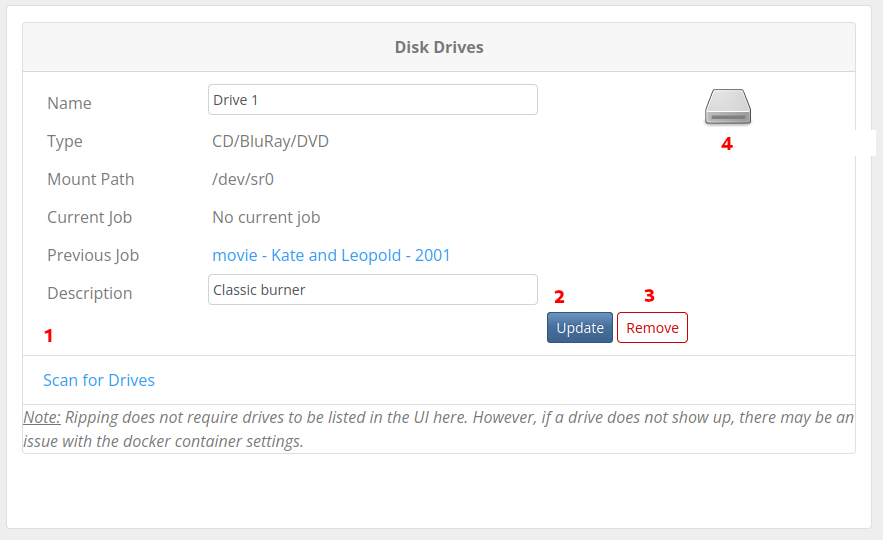
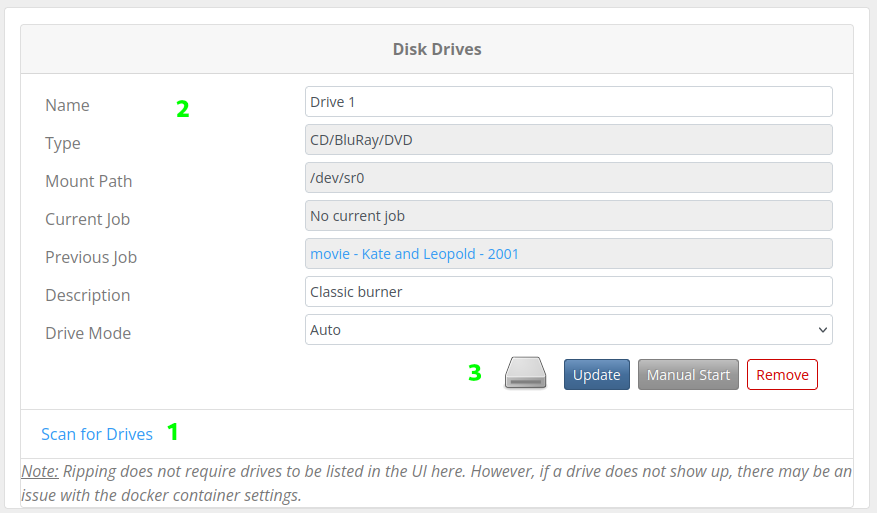
ARM Wiki - update Settings Drives
Update to align with additional features

diff --git a/arm_wiki/Settings-Drives.md b/arm_wiki/Settings-Drives.md
@@ -5,8 +5,11 @@
   * [Drive Settings](#drive-settings)
     * [1. Scanning For New Drives](#1-scanning-for-new-drives)
     * [2. Edit Drive Details](#2-edit-drive-details)
-    * [3. Removing a Drive](#3-removing-a-drive)
-    * [4. Eject or Close Drive](#4-eject-or-close-drive)
+    * [3. Drive Options](#3-drive-options)
+      * [3.1. Eject or Close Drive](#31-eject-or-close-drive)
+      * [3.2. Update Fields](#32-update-fields)
+      * [3.3. Manual Start](#33-manual-start)
+      * [3.4 Remove a Drive](#34-remove-a-drive)
 <!-- TOC -->
 
 ## Overview
@@ -18,7 +21,7 @@ Scanning for drives allows easier management, viewing and status of jobs running
 > For ARM to rip media the drives do not need to appear on the settings, drive page.
 > However, if ARM cannot find a drive following a scan, there may be issues with the docker configuration.
 
-<img title="ARM Settings Page" alt="Default ARM Settings page with no drives" src="images/arm_settings.png" width="50%" height=""/>
+<img title="ARM Settings Page" alt="Default ARM Settings page with no drives" src="images/arm_settings.png" width="80%" height=""/>
 
 ## Drive Settings
 
@@ -26,26 +29,16 @@ The following options are available from the ARM settings page, for each of the 
 
 1. Scan for Drives
 2. Edit Drive Details
-3. Remove a Drive
-4. Eject or Close Drive
+3. Drive Options
 
-<img title="ARM Settings Page" alt="Default ARM Settings page with no drives" src="images/arm_settings_drives.png" width="30%" height=""/>
+<img title="ARM Settings Page" alt="Default ARM Settings page with no drives" src="images/arm_settings_drives.png" width="80%" height=""/>
 
 ### 1. Scanning For New Drives
 
 To add a new drive to the ARM system, select 'Scan for Drives'
 ARM will scan the system looking for any new drive on the system, and associate any previous jobs to the drive.
 
-Once ARM has scanned the system, the following information will be presented.
-
-| Field        | Details                                                        | System or User |
-|--------------|----------------------------------------------------------------|----------------|
-| Name         | Defaults to `Drive x` where x is the total number of drives    | User editable  |
-| Type         | Type of drive, CD, DVD or Bluray or combination of all three   | System field   |
-| Mount Path   | System mount path reported                                     | System field   |
-| Current Job  | When the drive is processing a job, current jobs will be shown | System field   |
-| Previous Job | Once competed, previous or old jobs will be shown              | System field   |
-| Description  | User defined description for the drive                         | User editable        |
+Once ARM has scanned the system, the following information will be presented as detailed below.
 
 
 ### 2. Edit Drive Details
@@ -54,9 +47,41 @@ Drive names and descriptions can be modified to help in finding the right drive.
 As great as knowing a drive is `sr0` or `sr1`, adding in a description like 'top disk - Blu-ray' can help put the disk in the right drive.
 Especially for users with multiple drives in a system.
 
+| Field        | Details                                                        | System or User |
+|--------------|----------------------------------------------------------------|----------------|
+| Name         | Defaults to `Drive x` where x is the total number of drives    | User editable  |
+| Type         | Type of drive, CD, DVD or Bluray or combination of all three   | System field   |
+| Mount Path   | System mount path reported                                     | System field   |
+| Current Job  | When the drive is processing a job, current jobs will be shown | System field   |
+| Previous Job | Once competed, previous or old jobs will be shown              | System field   |
+| Description  | User defined description for the drive                         | User editable  |
+| Drive Mode | Set ARM to Auto or Manual, to allow additional configuration | User editable |
 
-### 3. Removing a Drive
 
+### 3. Drive Options
+
+There are a few options available against each drive
+1. Open / Close
+2. Update Fields
+3. Manual Start
+4. Remove
+
+#### 3.1. Eject or Close Drive
+
+From here you can click on a drive and control the drive open (eject) or close state.
+Handy if you have a lot of drives and still not quite sure which drive is what.
+
+#### 3.2. Update Fields
+
+Once edited, save any user configurable fields to the database.
+
+#### 3.3. Manual Start
+
+Sometimes ARM does its best, but like all good programs humans are a lot better.
+The manual start allows users to kick off ARM if the udev or other rules don't get going automatically.
+This shouldn't be needed all the time, but sometimes it helps.
+
+#### 3.4 Remove a Drive
 Sometimes you might just get to a point where removing a drive is necessary.
 A drive might give up and just quit, removing it from the ARM web page makes life easier and cleaner.
 
@@ -64,7 +89,4 @@ A drive might give up and just quit, removing it from the ARM web page makes lif
 > If you remove a drive accidentally, don't worry.
 > Simply running the 'Scan for Drives' will return all drives back if you accidentally remove the wrong drive.
 
-### 4. Eject or Close Drive
 
-From here you can click on a drive and control the drive open (eject) or close state.
-Handy if you have a lot of drives and still not quite sure which drive is what.

diff --git a/arm_wiki/_Sidebar.md b/arm_wiki/_Sidebar.md
@@ -17,7 +17,7 @@
 **Web Page Overview**
   - _Coming Soon_
   - **Settings**
-    - [Drive Management](Settings-Drives.md)
+    - [Drive Management](Settings-Drives)
 
 **[Known Issues](https://github.com/automatic-ripping-machine/automatic-ripping-machine/wiki/Known-Issues)**
 
